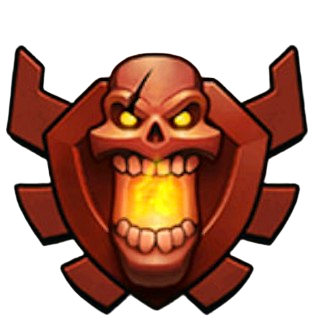
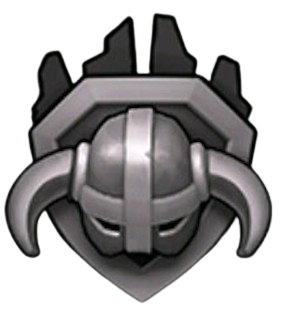
Implement structural updates and optimizations across multiple modules

diff --git a/app/tabs/(tabs)/index.tsx b/app/tabs/(tabs)/index.tsx
@@ -21,7 +21,8 @@ import bronzeIcon from "../../../assets/images/avatars/l1.png";
 import silverIcon from "../../../assets/images/avatars/l2.png";
 import goldIcon from "../../../assets/images/avatars/l3.png";
 import diamondIcon from "../../../assets/images/avatars/l4.png";
-import champIcon from "../../../assets/images/avatars/l5.png";
+import masterIcon from "../../../assets/images/avatars/l5.png";
+import champIcon from "../../../assets/images/avatars/l6.png";
 import defaultIcon from "../../../assets/images/avatars/lno.png";
 
 export default function Home() {
@@ -38,7 +39,8 @@ export default function Home() {
     l2: silverIcon,
     l3: goldIcon,
     l4: diamondIcon,
-    l5: champIcon, // Platin ikonu için
+    l5: masterIcon,
+    l6: champIcon,
     default: defaultIcon,
   };
 
@@ -65,7 +67,7 @@ export default function Home() {
       }
     };
 
-    setScore(1200);
+    setScore(100);
     if (score !== null) {
       console.log("Score:", score);
       if (score === 0) {
@@ -83,9 +85,12 @@ export default function Home() {
       } else if (score >= 600 && score <= 799) {
         setLeague("Elmas");
         setLeagueIcon("l4");
-      } else if (score >= 800) {
-        setLeague("Şampiyon");
+      } else if (score >= 800 && score <= 1199) {
+        setLeague("Usta");
         setLeagueIcon("l5");
+      } else {
+        setLeague("Şampiyon");
+        setLeagueIcon("l6");
       }
     }
 
@@ -187,16 +192,17 @@ export default function Home() {
               </View>
             </Box>
           </View>
+          <View
+            style={{ backgroundColor: "#FDF6E8" }}
+            className="w-full flex flex-row justify-center items-center mt-4"
+          >
+            <TouchableOpacity className="w-4/5  bg-orange-300 py-3 rounded-xl mt-2">
+              <Text className="text-center text-white font-semibold text-lg">
+                Oyun Başlat
+              </Text>
+            </TouchableOpacity>
+          </View>
         </View>
-
-        <TouchableOpacity
-          onPress={handleLogout}
-          className="w-full bg-orange-300 py-3 rounded-xl mt-2"
-        >
-          <Text className="text-center text-white font-semibold text-lg">
-            Çıkış Yap
-          </Text>
-        </TouchableOpacity>
       </View>
     </ImageBackground>
   );

diff --git a/app/tabs/(tabs)/tab1.tsx b/app/tabs/(tabs)/tab1.tsx
@@ -1,14 +1,32 @@
 import EditScreenInfo from "@/components/EditScreenInfo";
 import { Center } from "@/components/ui/center";
 import { Divider } from "@/components/ui/divider";
-import { Heading } from "@/components/ui/heading";
 import { Text } from "@/components/ui/text";
+import { useRouter } from "expo-router";
+import { logout } from "@/service/auth";
+
+import React from "react";
+
+import { TouchableOpacity } from "react-native";
 
 export default function Tab2() {
+  const router = useRouter();
+
+  const handleLogout = async () => {
+    await logout();
+    router.replace("/auth/login");
+  };
   return (
     <Center className="flex-1">
       <Divider className="my-[30px] w-[80%]" />
-      <Text className="p-4">Example below to use gluestack-ui components.</Text>
+      <TouchableOpacity
+        onPress={handleLogout}
+        className="w-full bg-orange-300 py-3 rounded-xl mt-2"
+      >
+        <Text className="text-center text-white font-semibold text-lg">
+          Çıkış Yap
+        </Text>
+      </TouchableOpacity>
       <EditScreenInfo path="app/(app)/(tabs)/tab1.tsx" />
     </Center>
   );
